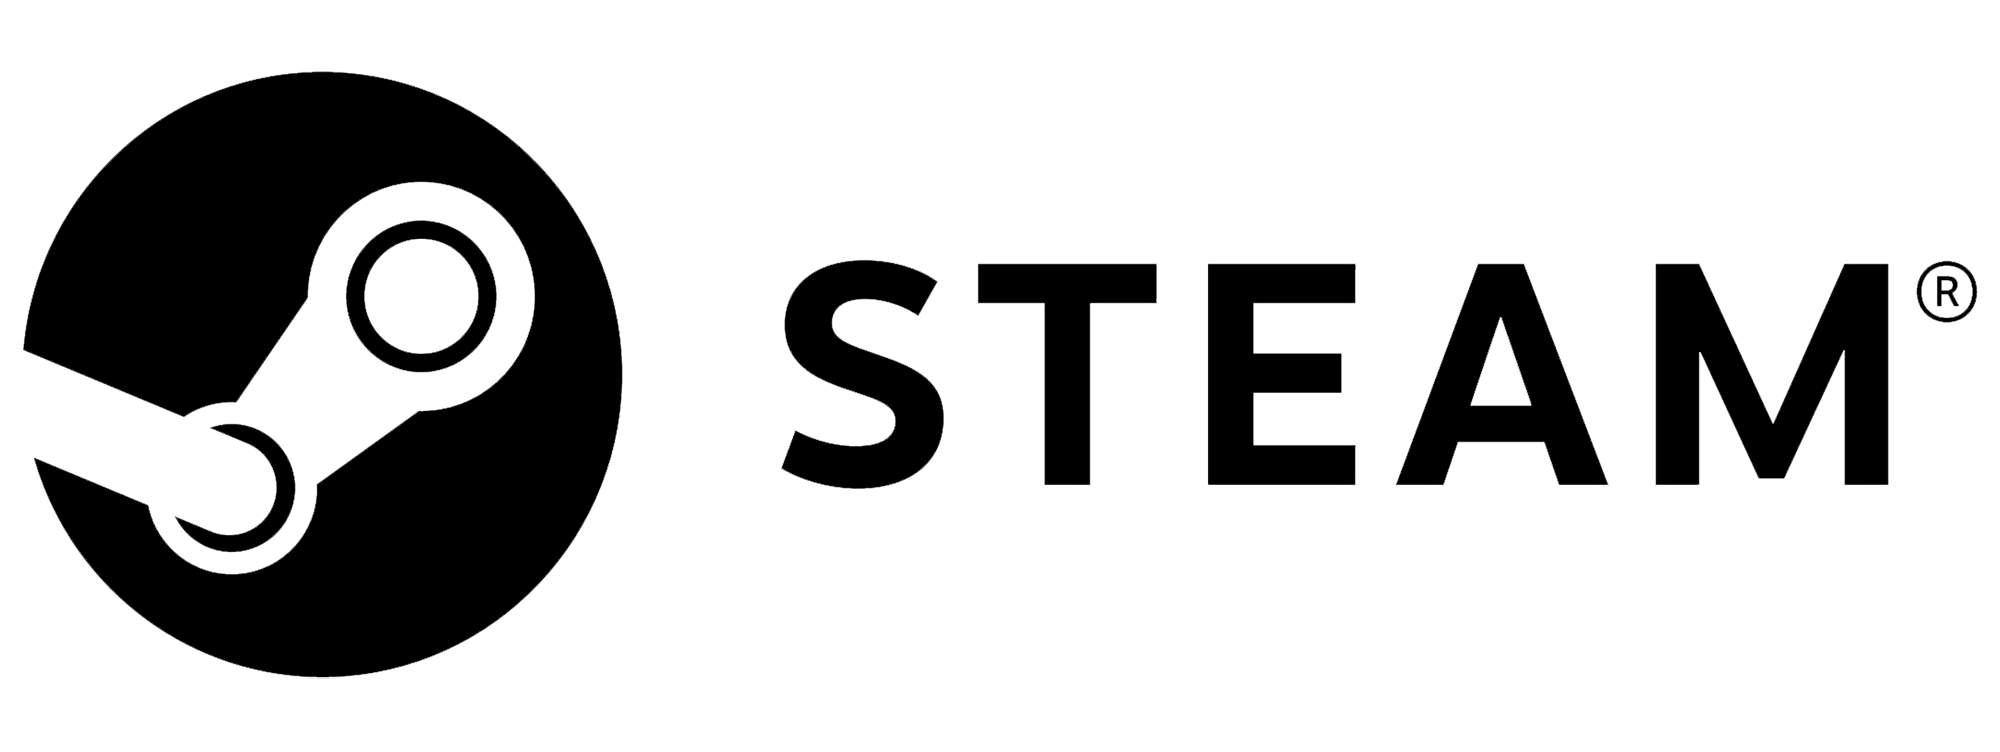
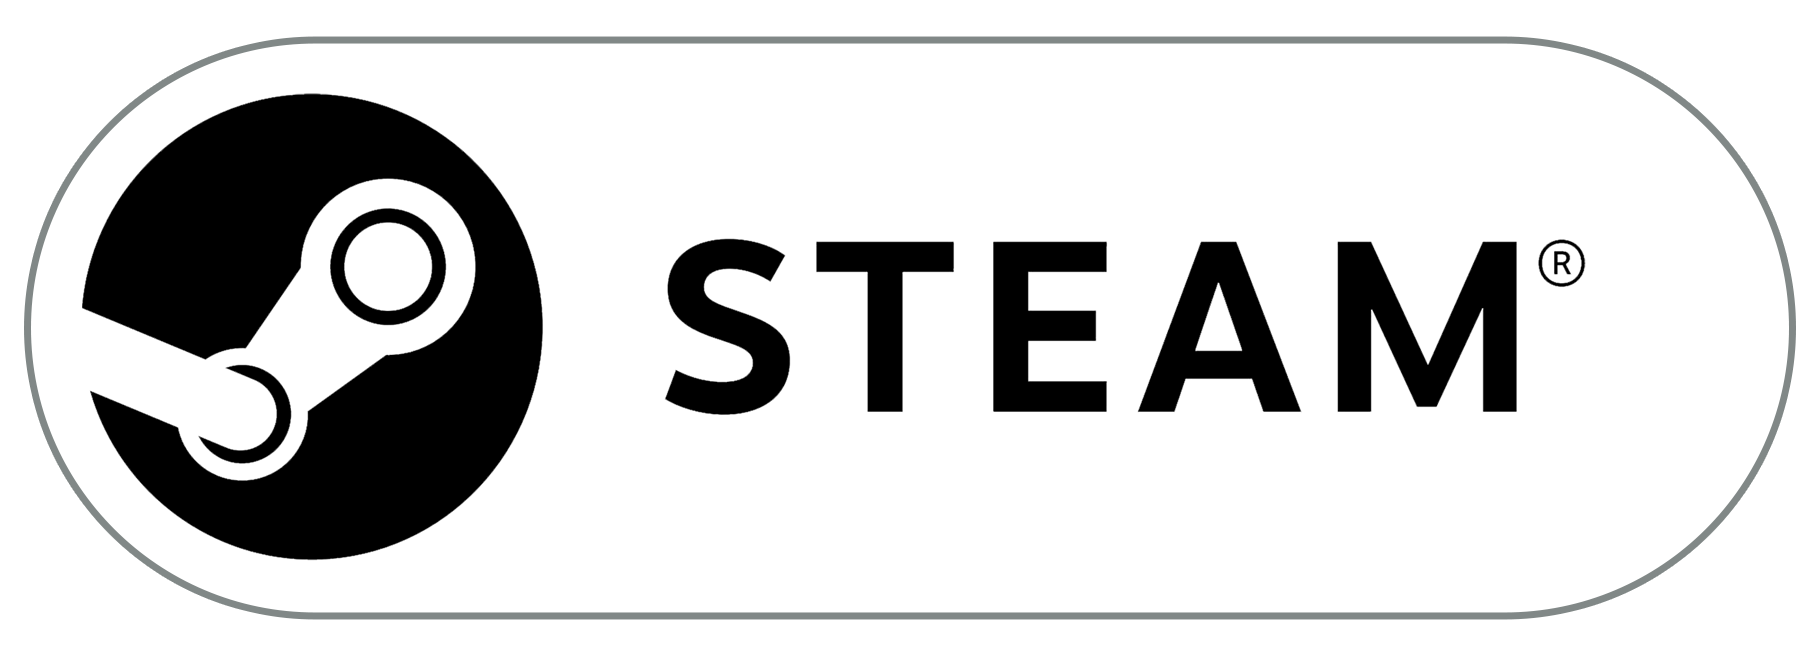
v007 - Ajustes al espaciado y cambio del botón de STEAM
- Movido el botón de STEAM a la portada del índice
- Ajustado el padding de las secciones para ser % y que se ajuste mejor a diferentes pantallas

diff --git a/index.html b/index.html
@@ -27,11 +27,16 @@
         <!-- GAME -->
         <section>
             <div class="home-game-background" style="padding-top: 40px;">
+                <div class="steam-button-div">
+                    <a href="https://store.steampowered.com/app/2843980/Gelatina_is_Hungry/" target="_blank" class="steam-button">
+                        <img style="height: 112.2px; width: 330px;" src="resources/images/Steam.png" alt="Enlace a Steam">
+                    </a>
+                </div>
             </div>
         </section>
         <!-- About Undercastle -->
         <section>
-            <div class="index-content-center-wrapper" style="padding-top: 60px; font-family: Raleway;">
+            <div class="index-content-center-wrapper" style="padding-top: 10%; font-family: Raleway;">
                 <p class="text-description" data-lang-key="gthDescription"></p>
                 <div class="trailer-div" style="padding-top: 20px;">
                     <iframe width="720" height="400"
@@ -39,11 +44,6 @@
                         frameborder="0" 
                         allowfullscreen>
                     </iframe>
-                </div>
-                <div>
-                    <a href="https://store.steampowered.com/app/2843980/Gelatina_is_Hungry/" target="_blank">
-                        <img style="height: 75.2px; width: 200px;" src="resources/images/Steam.png" alt="Enlace a Steam">
-                    </a>
                 </div>
               </div>
         </section>

diff --git a/aboutUs.html b/aboutUs.html
@@ -22,7 +22,7 @@
     </header>
     <main class="about-content">
         <section id="studio">
-            <div class="content-center-wrapper" style="padding-top: 60px;">
+            <div class="content-center-wrapper" style="padding-top: 10%;">
                 <img src="resources/images/T_undercastle_logo_black_text.png" style="max-width: 250px; width: 100%; height: auto;">
                 <p class="company-description" data-lang-key="indexAboutDescription" style="font-size:16px; font-family: Raleway;"></p>               
                 <div class="contact-mail">
@@ -50,7 +50,7 @@
 
         <section id="aboutUs" style="font-family: Raleway;">
             
-            <div class="about-text" style="padding-top: 40px;">
+            <div class="about-text" style="padding-top: 5%;">
                 <h2 class="about-title" data-lang-key="aboutTitle">About Us</h2>
                 <p class="about-description" data-lang-key="aboutDescription">Company description text</p>
             </div>

diff --git a/resources/css/indexStyles.css b/resources/css/indexStyles.css
@@ -6,6 +6,17 @@
     align-items: center;
 }
 
+.steam-button-div {
+  position: absolute;
+  bottom: 10%;
+  right: 5%;
+  z-index: 500;
+}
+
+.steam-button {
+  display: block;
+}
+
 .trailer-div {
     align-content: center;
 }
